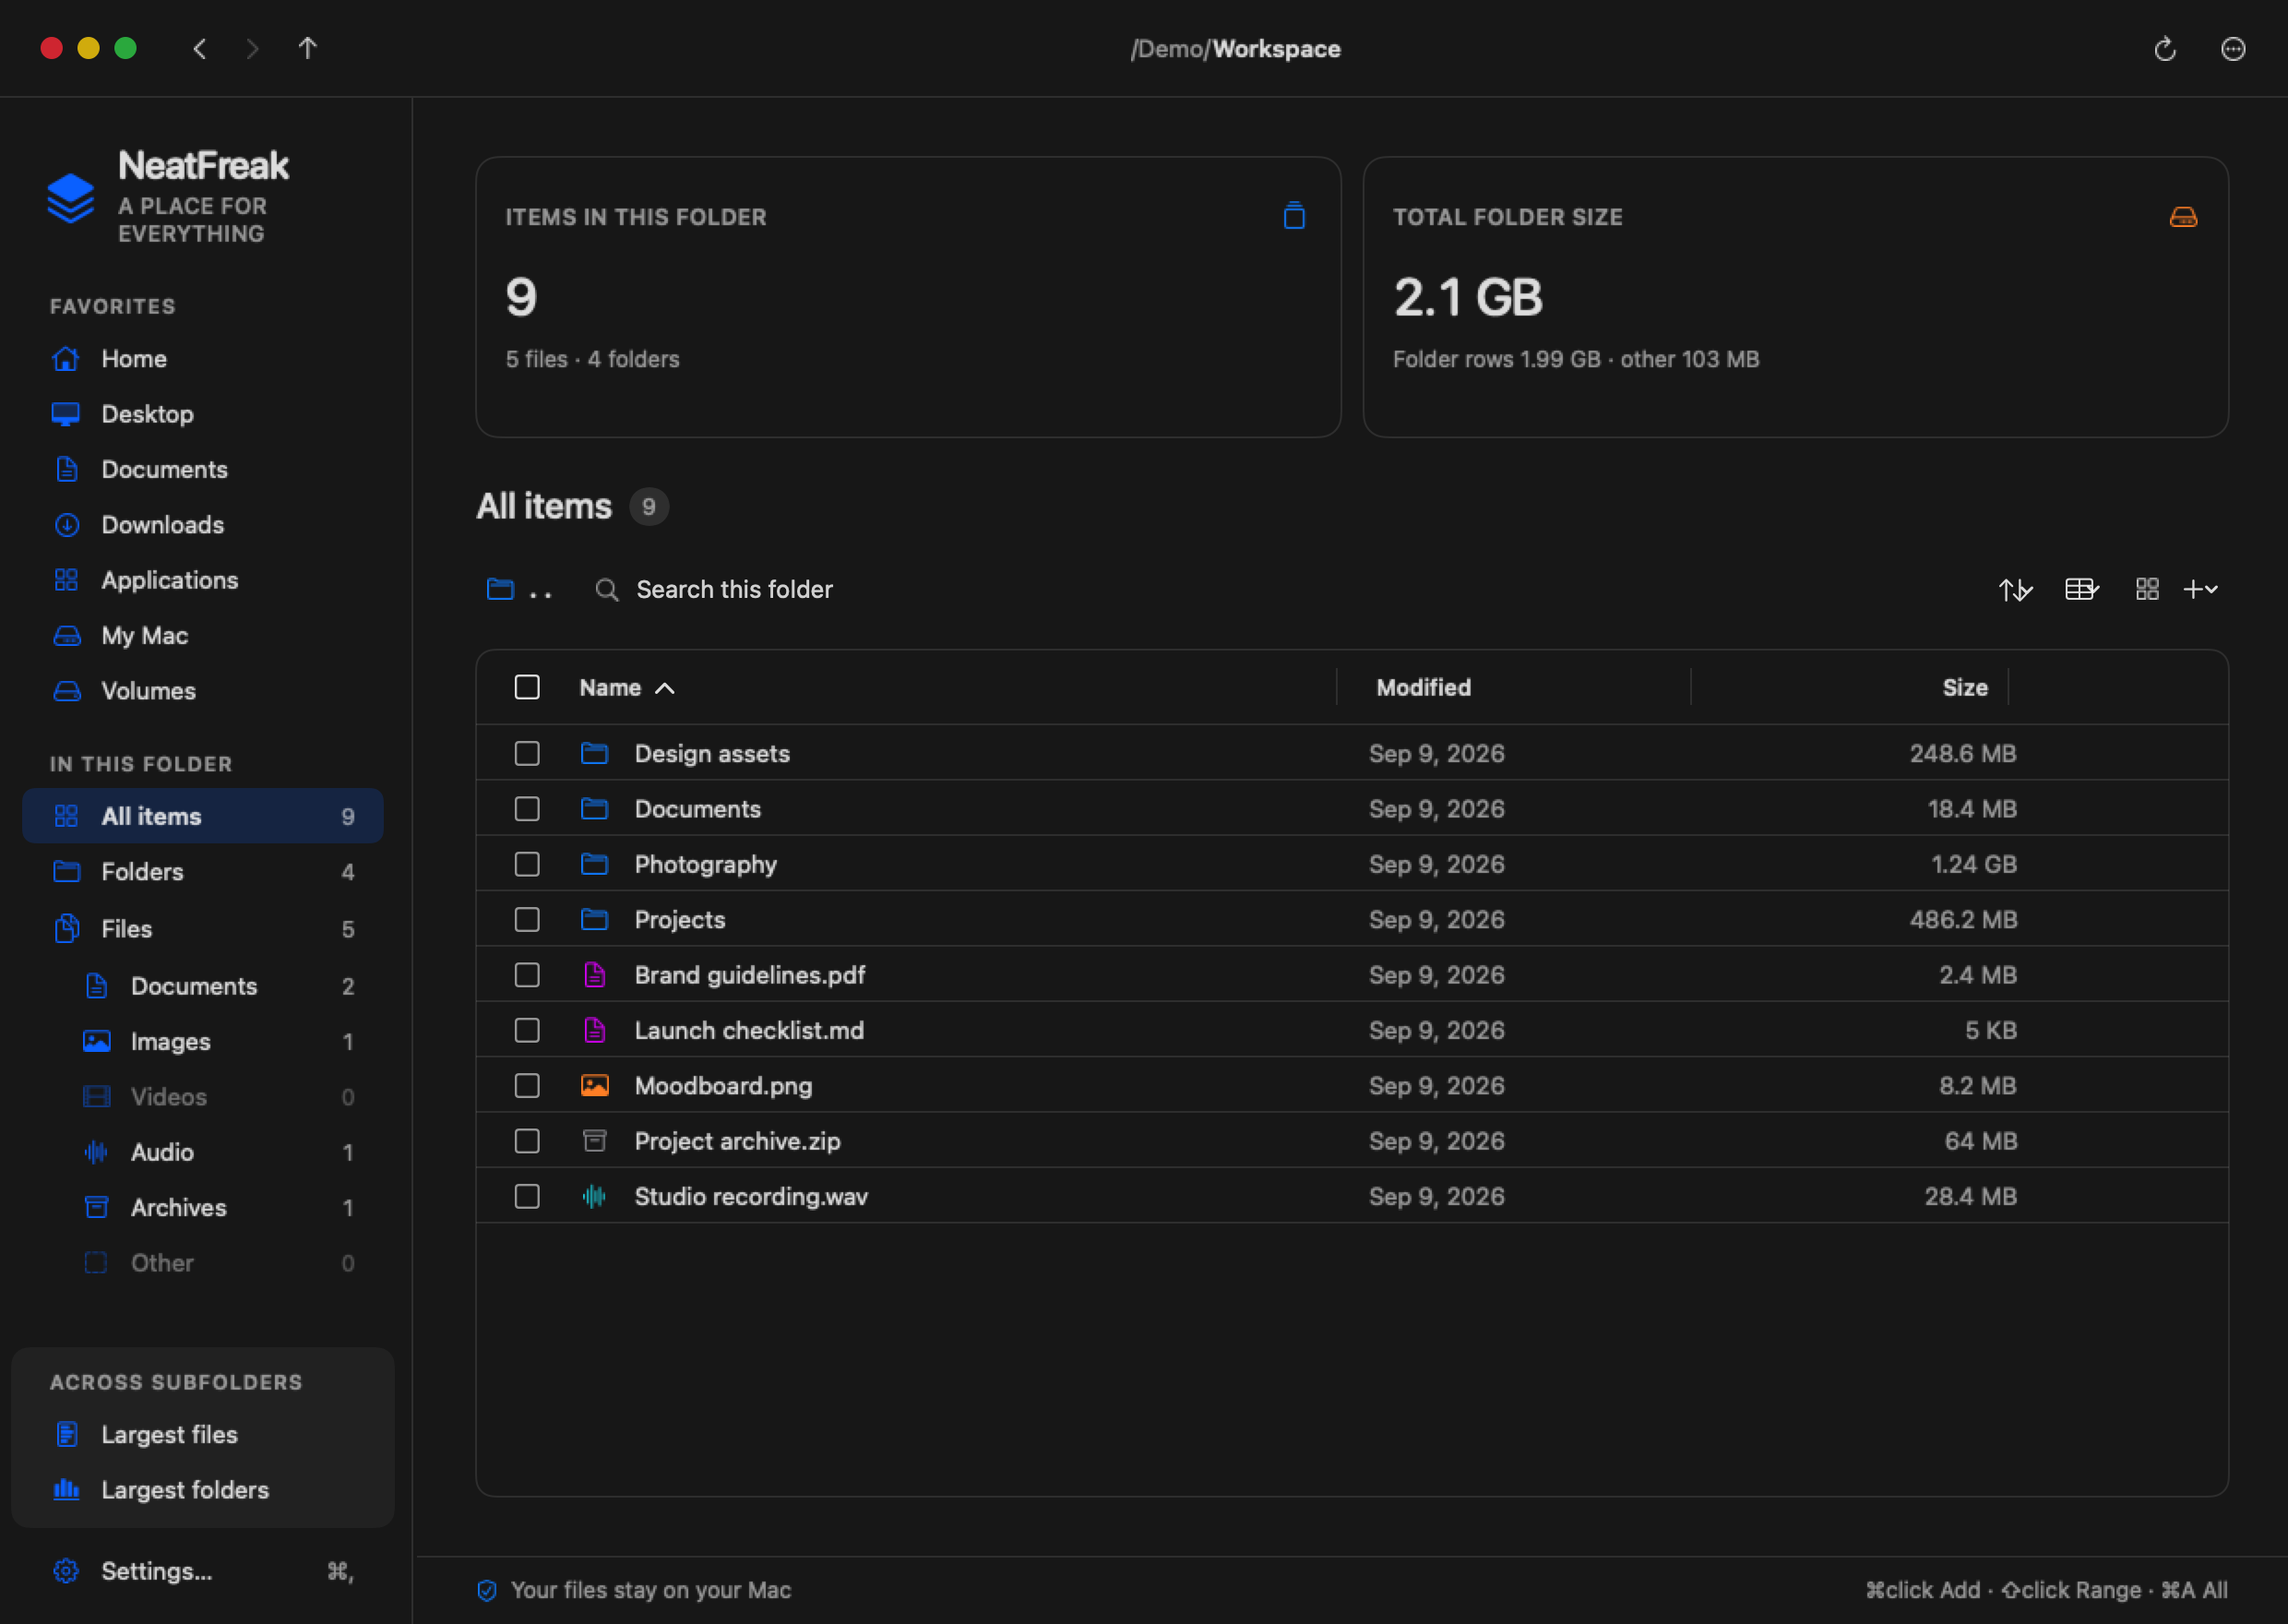
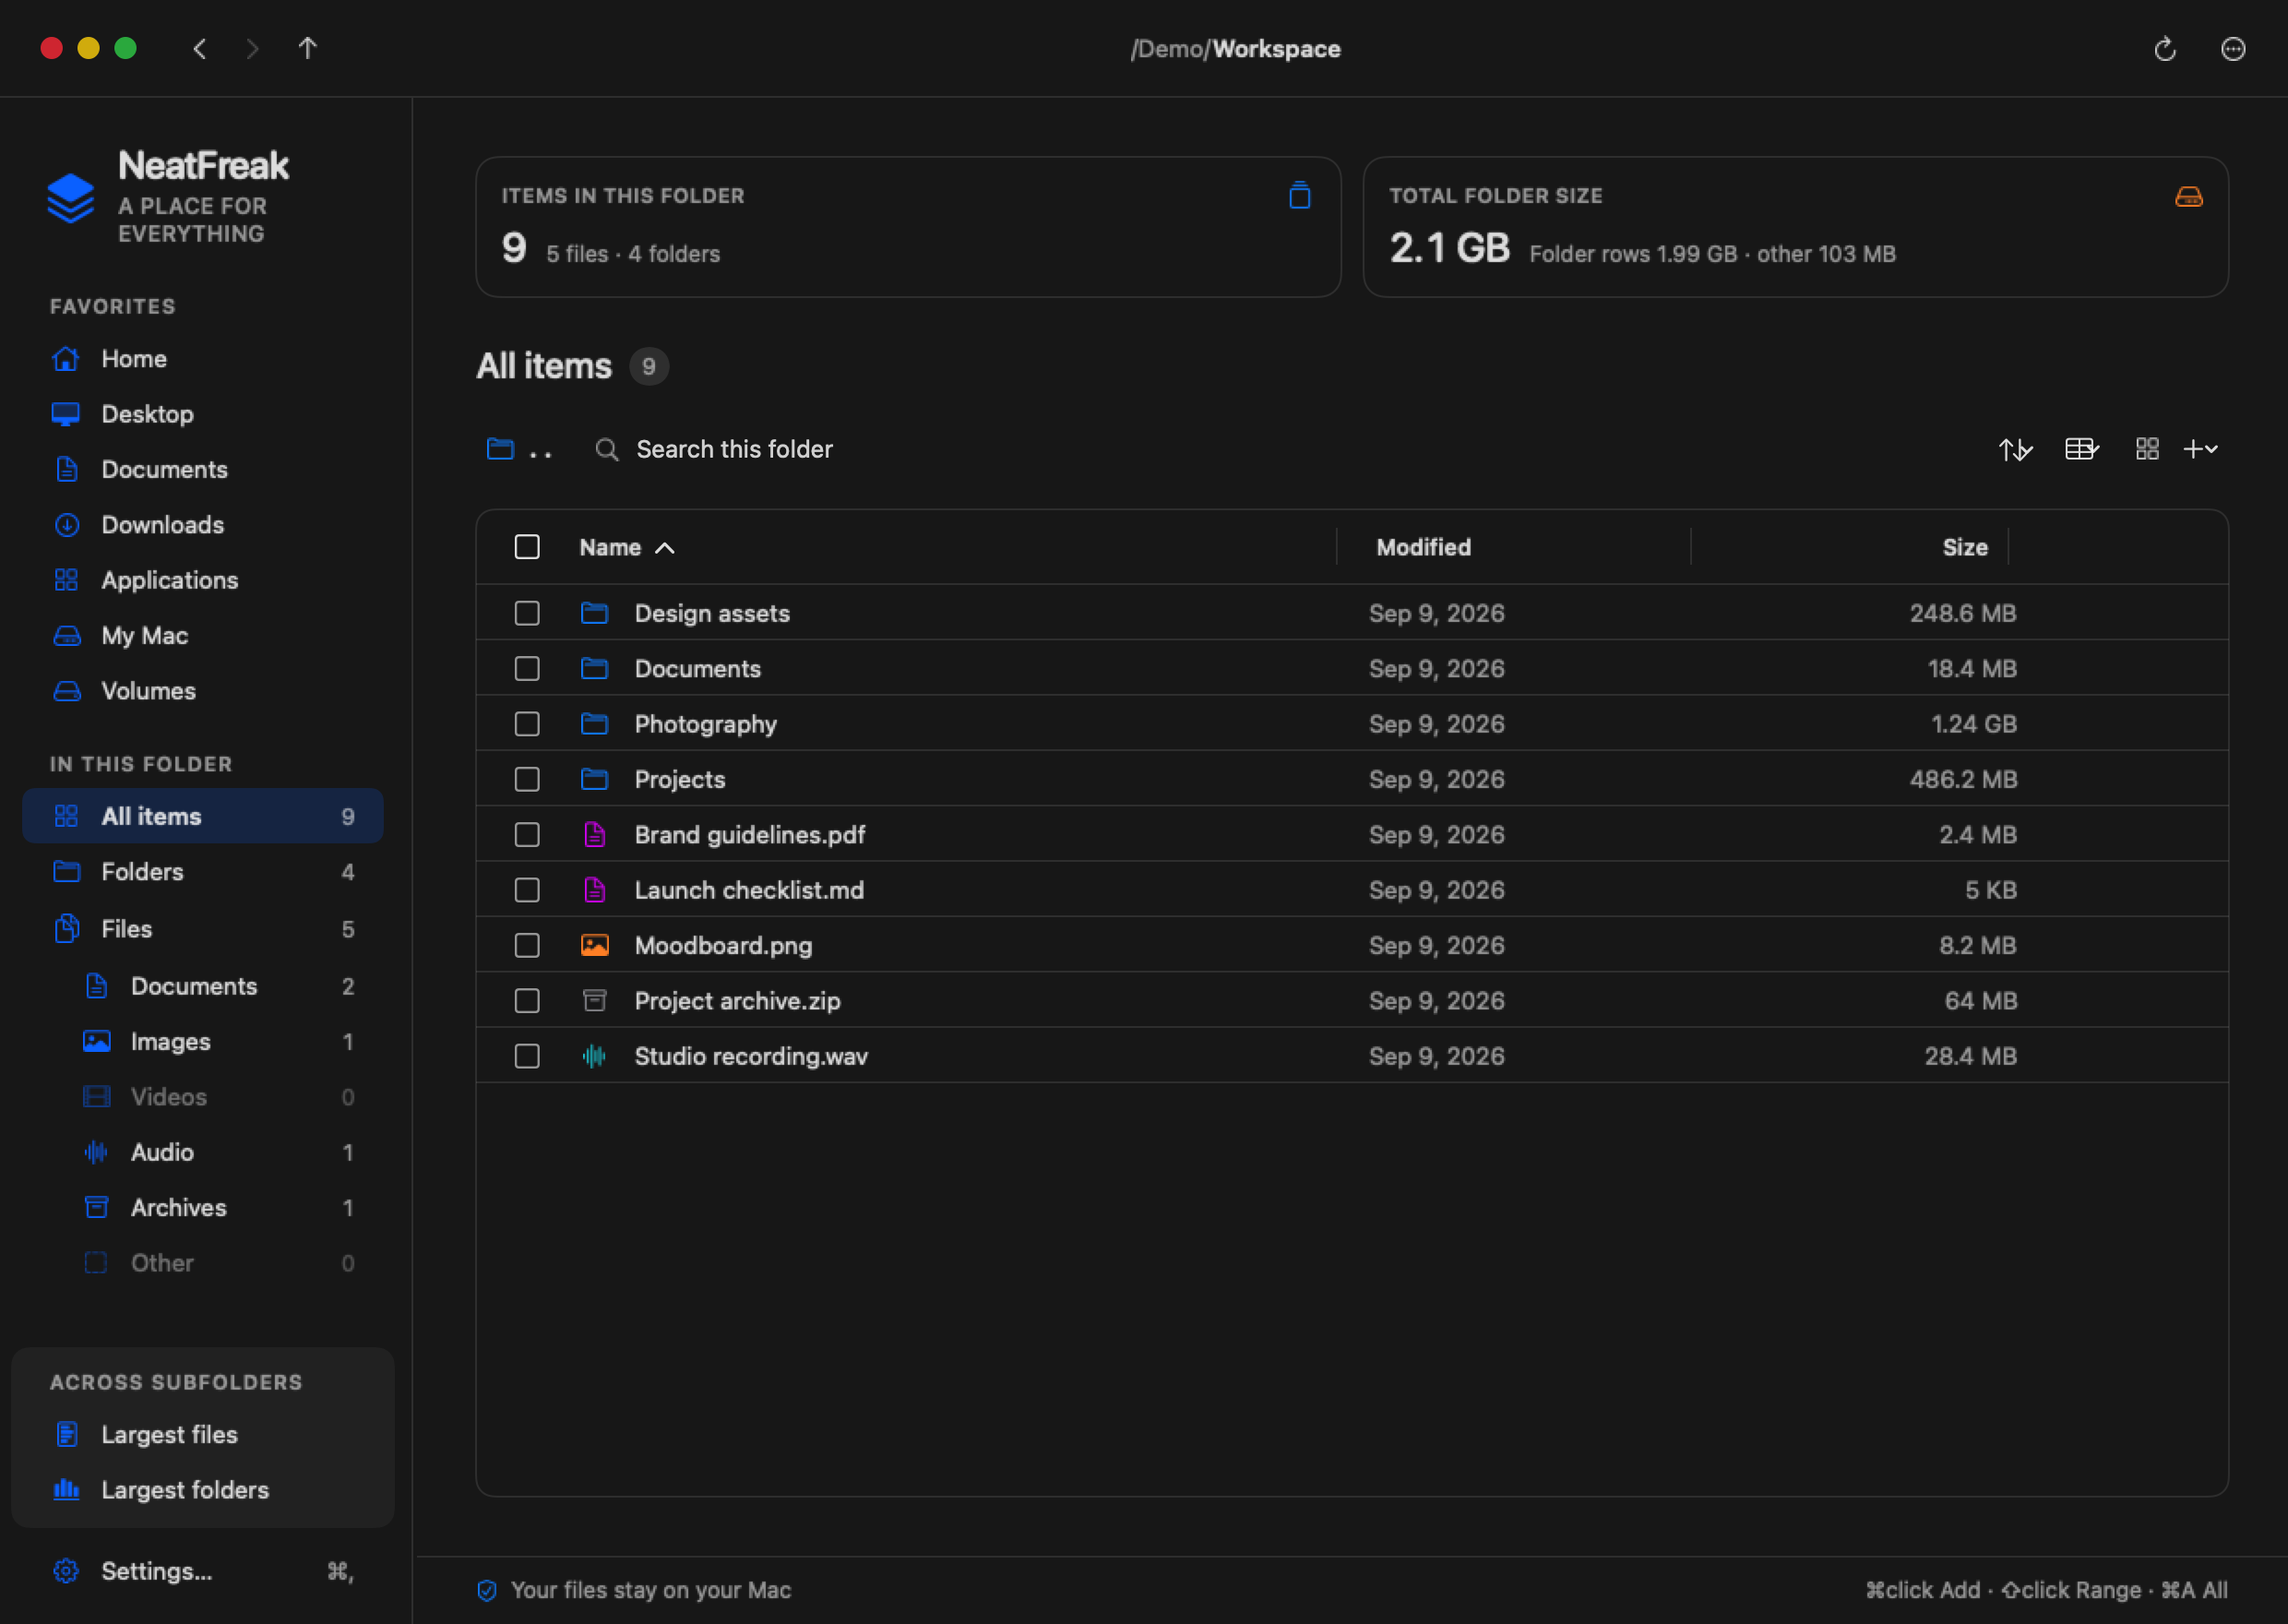
Release NeatFreak 0.2.13 preview

diff --git a/Casks/neatfreak.rb b/Casks/neatfreak.rb
@@ -1,6 +1,6 @@
 cask "neatfreak" do
-  version "0.2.12"
[1 lines of base64/hex data omitted]
+  version "0.2.13"
[1 lines of base64/hex data omitted]
 
   url "https://github.com/sean-lab/homebrew-neatfreak/releases/download/v#{version}/NeatFreak-#{version}-universal.zip"
   name "NeatFreak"

diff --git a/README.md b/README.md
@@ -6,7 +6,7 @@
   <p>
     <img src="https://img.shields.io/badge/macOS-14%2B-1677FF?style=flat-square" alt="macOS 14 and later">
     <img src="https://img.shields.io/badge/Apple%20Silicon%20%2B%20Intel-Universal-454545?style=flat-square" alt="Universal app for Apple Silicon and Intel">
-    <img src="https://img.shields.io/badge/release-0.2.12%20preview-805AD5?style=flat-square" alt="0.2.12 preview">
+    <img src="https://img.shields.io/badge/release-0.2.13%20preview-805AD5?style=flat-square" alt="0.2.13 preview">
   </p>
   <p><a href="#install">Install</a> · <a href="#made-for-your-workflow">Features</a> · <a href="https://github.com/sean-lab/homebrew-neatfreak/releases">Releases</a> · <a href="README.ko.md">한국어</a></p>
 </div>
@@ -23,8 +23,8 @@
 
 | Explore | Understand | Take action |
 | :--- | :--- | :--- |
-| Move between folders with history, parent navigation, and an editable path. Keep favorite folders in the sidebar, drag to reorder them, and drop files onto them. | Calculate folder sizes, including files inside subfolders. See the 100 largest files and folders across all subfolders. | Select a range or several files and copy, move, or trash them together. Drag files into folders to move them, out to other apps or the Trash, or drop external files in to copy them. Undo any move, copy, rename, Trash, or new item with ⌘Z. |
-| Sort by column headers and adjust columns and side panels. | Reuse cached size results while navigating and react to filesystem changes. | Preview supported files in the right panel and choose an app with **Open With**. |
+| Move between folders with history, parent navigation, and an editable path. Keep favorite folders in the sidebar, drag to reorder them, and drop files onto them. Open a folder in Terminal, iTerm, or another terminal app. | Calculate folder sizes, including files inside subfolders. See the 100 largest files and folders across all subfolders. See how much space is left on the volume. | Select a range or several files and copy, move, or trash them together. Drag files into folders to move them, out to other apps or the Trash, or drop external files in to copy them. Undo any move, copy, rename, Trash, or new item with ⌘Z. |
+| Sort by column headers and adjust columns and side panels. | Reuse cached size results while navigating and react to filesystem changes. | Preview supported files in the right panel and choose an app with **Open With**. Compress items into a zip, and extract zip and tar archives next to them. |
 
 Create folders and empty files from the **+** button or context menu. Browse **All items**, **Folders**, or **Files**, with file types grouped under Files. Wide lists scroll horizontally when the preview panel is open. In Git repositories, the right panel shows the current branch, remotes, and a colored commit graph.
 
@@ -42,7 +42,7 @@ Requires **macOS 14 Sonoma or later**. One universal app supports **Apple Silico
 
 Prefer a manual download? Get the ZIP from [Releases](https://github.com/sean-lab/homebrew-neatfreak/releases), extract it, and move `NeatFreak.app` to Applications.
 
-> **Preview release:** 0.2.12 is ad-hoc signed and not notarized by Apple. macOS may require approval in **System Settings → Privacy & Security** before opening it. This cask does not bypass Gatekeeper or change security settings.
+> **Preview release:** 0.2.13 is ad-hoc signed and not notarized by Apple. macOS may require approval in **System Settings → Privacy & Security** before opening it. This cask does not bypass Gatekeeper or change security settings.
 
 Already installed manually? Quit NeatFreak and move the existing app out of `/Applications` before installing with Homebrew. Your documents are unaffected.
 

diff --git a/README.ko.md b/README.ko.md
@@ -3,7 +3,7 @@
   <h1>NeatFreak</h1>
   <p><strong>파일은 제자리에. 작업은 더 편안하게.</strong></p>
   <p>폴더를 자유롭게 탐색하고, 용량을 파악하고, 파일을 바로 미리 보세요.<br>Mac을 위한 네이티브 파일 유틸리티.</p>
-  <p>macOS 14 이상 · Apple Silicon & Intel · 0.2.12 Preview</p>
+  <p>macOS 14 이상 · Apple Silicon & Intel · 0.2.13 Preview</p>
   <p><a href="#설치">설치</a> · <a href="https://github.com/sean-lab/homebrew-neatfreak/releases">다운로드</a> · <a href="README.md">English</a></p>
 </div>
 
@@ -19,8 +19,8 @@
 
 | 탐색 | 용량 확인 | 파일 작업 |
 | :--- | :--- | :--- |
-| 이전·다음·상위 폴더 이동과 경로 직접 입력, 사이드바 즐겨찾기 폴더와 끌어서 순서 바꾸기·파일 넣기 | 하위 폴더 내부까지 포함하는 용량 계산, 하위 전체에서 가장 큰 파일·폴더 100개 보기 | 여러 파일을 선택해 복사·이동·휴지통 처리, 폴더로 드래그해 이동하거나 다른 앱·휴지통으로 드래그 앤 드롭, ⌘Z로 이동·복사·이름 변경·휴지통·새 항목 되돌리기 |
-| 컬럼 헤더 정렬, 컬럼·양쪽 패널 너비 조절 | 탐색 중 캐시 재사용과 파일 시스템 변경 반영 | 오른쪽 패널 미리보기와 **Open With** |
+| 이전·다음·상위 폴더 이동과 경로 직접 입력, 사이드바 즐겨찾기 폴더와 끌어서 순서 바꾸기·파일 넣기, 터미널·iTerm 등에서 폴더 열기 | 하위 폴더 내부까지 포함하는 용량 계산, 하위 전체에서 가장 큰 파일·폴더 100개 보기, 볼륨의 남은 용량 보기 | 여러 파일을 선택해 복사·이동·휴지통 처리, 폴더로 드래그해 이동하거나 다른 앱·휴지통으로 드래그 앤 드롭, ⌘Z로 이동·복사·이름 변경·휴지통·새 항목 되돌리기 |
+| 컬럼 헤더 정렬, 컬럼·양쪽 패널 너비 조절 | 탐색 중 캐시 재사용과 파일 시스템 변경 반영 | 오른쪽 패널 미리보기와 **Open With**, zip 압축과 zip·tar 압축 풀기 |
 
 **+ 버튼이나 우클릭 메뉴**에서 새 폴더와 빈 파일을 만드세요. 전체 항목·폴더·파일을 구분하고, 파일 아래에서 유형별로 탐색할 수 있습니다. 미리보기 패널을 열어도 넓은 목록은 가로 스크롤로 확인할 수 있습니다. Git 저장소에서는 오른쪽 패널에 현재 브랜치, 리모트, 색상별 커밋 그래프가 표시됩니다.
 
@@ -38,7 +38,7 @@ brew install --cask sean-lab/neatfreak/neatfreak
 
 직접 설치하려면 [Releases](https://github.com/sean-lab/homebrew-neatfreak/releases)에서 ZIP을 내려받아 압축을 풀고 `NeatFreak.app`을 응용 프로그램 폴더로 옮기세요.
 
-> **테스트 버전 안내:** 0.2.12는 임시 서명된 앱으로 Apple 공증을 받지 않았습니다. 최초 실행 시 **시스템 설정 → 개인정보 보호 및 보안**에서 승인이 필요할 수 있습니다. 설치 과정에서 Gatekeeper를 우회하거나 보안 설정을 변경하지 않습니다.
+> **테스트 버전 안내:** 0.2.13은 임시 서명된 앱으로 Apple 공증을 받지 않았습니다. 최초 실행 시 **시스템 설정 → 개인정보 보호 및 보안**에서 승인이 필요할 수 있습니다. 설치 과정에서 Gatekeeper를 우회하거나 보안 설정을 변경하지 않습니다.
 
 이미 수동 설치했다면 앱을 종료하고 기존 앱을 `/Applications` 밖으로 옮긴 뒤 Homebrew로 설치하세요. 문서 파일에는 영향을 주지 않습니다.
 
